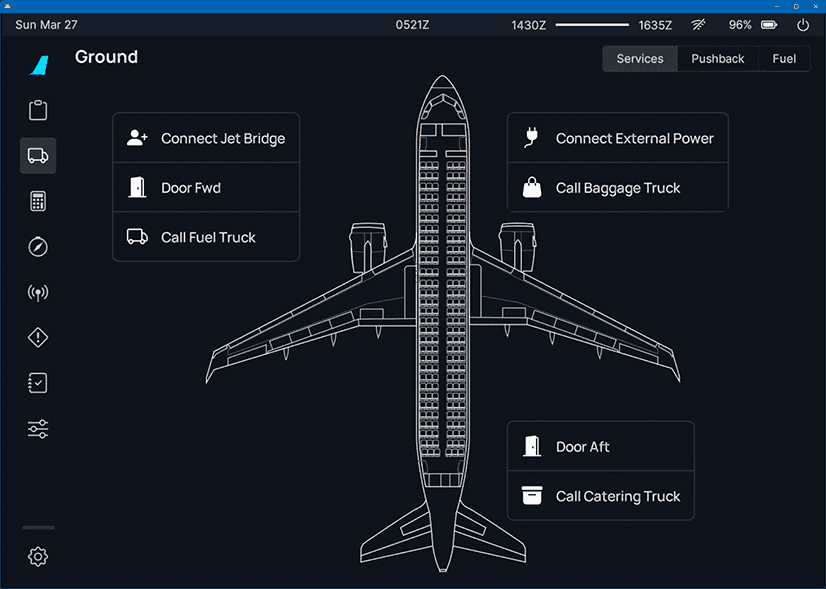
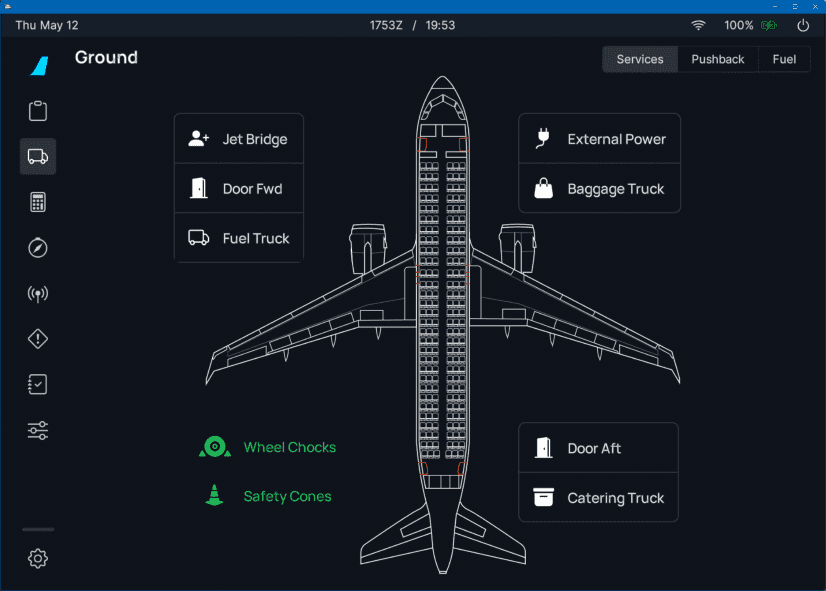
Updated for wheel chocks and cones

diff --git a/docs/fbw-a32nx/feature-guides/wheel-chocks-cones.md b/docs/fbw-a32nx/feature-guides/wheel-chocks-cones.md
@@ -10,23 +10,29 @@ The flight crew activates the Wheel Chocks and Safety Cones through the flyPad E
 crew will then (virtually) determine if chocks and cones should be placed or removed based on specific criteria, which are described in the [next section](#usage).
 
 !!! block ""
-
     ![Wheel Chocks](../assets/feature-guides/chocks-cones/chocks.png "Wheel Chocks"){loading=lazy align=left width=45%}
     ![Wheel Chocks](../assets/feature-guides/chocks-cones/chocks_2.png "Wheel Chocks"){loading=lazy align=left width=45%}
      <br>
     ![GSE Safety Cone](../assets/feature-guides/chocks-cones/cones.png "GSE Safety Cone"){loading=lazy align=left width=45%}
-    ![EFB Ground Buttons for Chocks and Cones](../assets/feature-guides/chocks-cones/efb-ground-chocks-cones-.png "EFB Ground Buttons for Chocks and Cones"){loading=lazy align=left width=45%}
+    ![EFB Ground Buttons for Chocks and Cones](../assets/feature-guides/chocks-cones/efb-ground-chocks-cones.png "EFB Ground Buttons for Chocks and Cones"){loading=lazy align=left width=45%}
 
 ## Usage
 
 The Wheel Chocks and Safety Cones appear when the following conditions are given:
 
-- Chocks and/or Safety Cones are activated in the [flyPad EFB Ground Page](flyPad/ground.md)
+- Chocks and/or Safety Cones are enabled in the [flyPad EFB Sim Options Settings Page](flyPados3/settings.md#sim-options)
 - Engines are off (`ENG1+2 N1` < 3.5%)
 - Beacon lights are off
 - Airplane is on ground
 - Airplane is not moving / rolling
 - Pushback is disconnected
+
+The flyPad Ground page will show `Wheel Chocks` and/or `Safety Cones` in 
+
+- <span style=color:green>green</span> if this ground equipment is enabled and visible.
+- <span style=color:gray>gray</span> if this ground equipment is enabled but not visible due to the above criteria not 
+  being 
+  met. 
 
 If chocks are in place there will be brake force applied to the aircraft so it should not move even when the parking brake is disengaged.
 

diff --git a/docs/fbw-a32nx/feature-guides/flyPados3/settings.md b/docs/fbw-a32nx/feature-guides/flyPados3/settings.md
@@ -71,6 +71,7 @@ Settings for A32NX aircraft configuration.
       NAT routes are imported via SimBrief.  
 - Weight Unit:
     - The weight unit of the aircraft used for aircraft weight, fuel and simBrief imports.
+  
 ## Sim Options
 
 Settings for simulation aspects of the A32NX aircraft.
@@ -135,6 +136,14 @@ Settings for simulation aspects of the A32NX aircraft.
     - Enable this setting to use a calculated ILS signal instead of the signal provided by Microsoft Flight Simulator.
     - This avoids unwanted and unrealistic loss of the ILS signal in Microsoft Flight Simulator which often happens when the aircraft gets below the antenna position.
     - In some rare cases this can cause a faulty G/S signal. In this case this setting can be disabled with immediate effect.
+- Wheel Chocks
+    - Enable wheel chocks visible in the external view
+    - Only visible if ground crew has not removed them - see [Wheel Chocks and GSE Safety Cones](../wheel-chocks-cones.md) for more 
+      information. 
+- Safety Cones
+    - Enable safety cones visible in the external view
+    - Only visible if ground crew has not removed them - see [Wheel Chocks and GSE Safety Cones](../wheel-chocks-cones.md) for more
+        information.
 - Throttle Detents
     - Please see the [Throttle Configuration Guide](throttle-calibration.md).
 

diff --git a/docs/fbw-a32nx/feature-guides/flyPados3/ground.md b/docs/fbw-a32nx/feature-guides/flyPados3/ground.md
@@ -57,6 +57,12 @@ Opens and closes the aft door.
 Calls the catering service if available at the current airport and gate. The catering service will open the aft 
 door and automatically closes it after it has virtually supplied the aircraft.
 
+### Ground Equipment 
+
+See [Wheel Chocks and GSE Safety Cones](../wheel-chocks-cones.md)
+
+For settings see: [flyPad Sim Options Settings](settings.md#sim-options)
+
 ## Pushback
 
 {--
